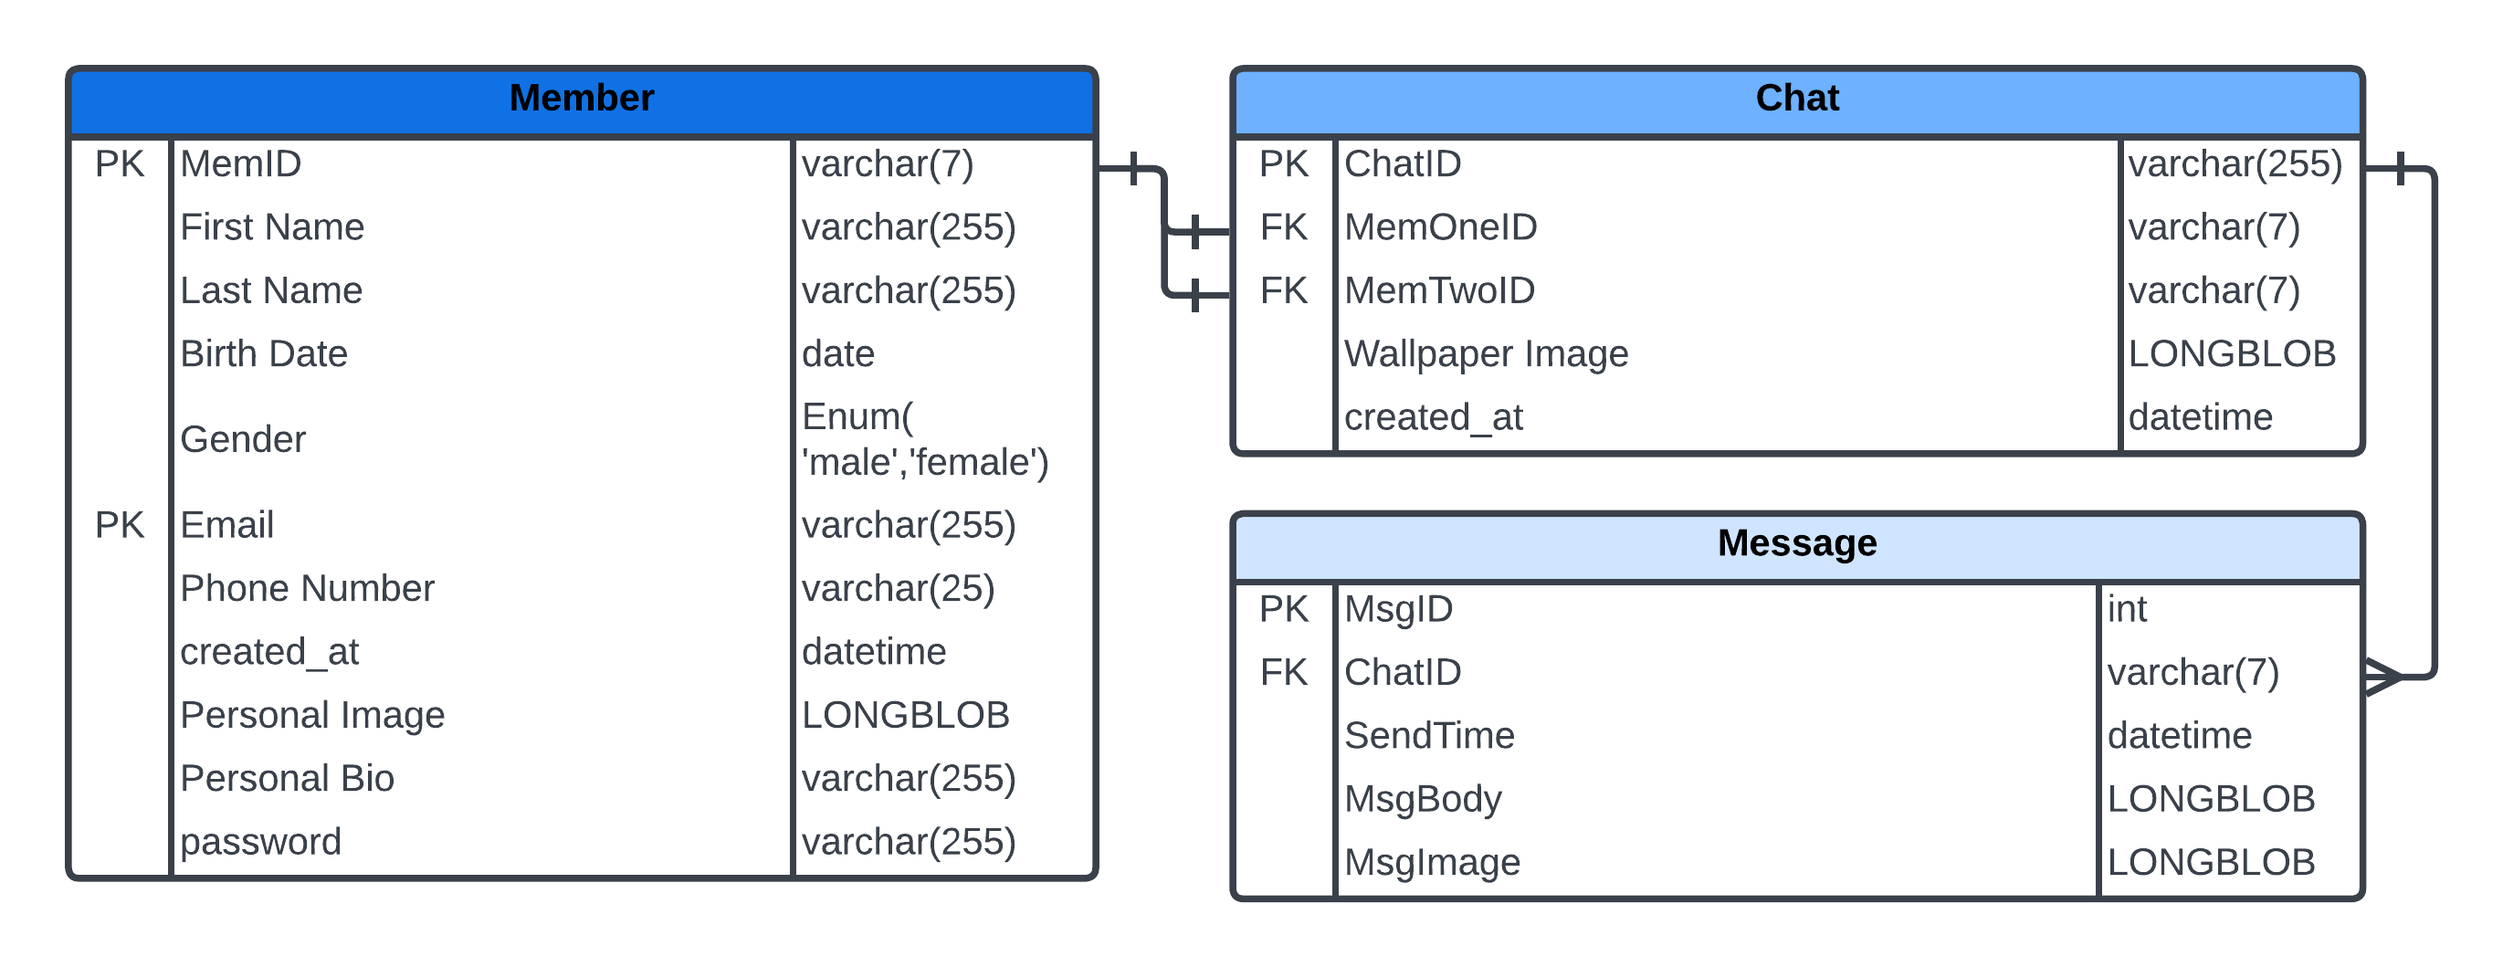
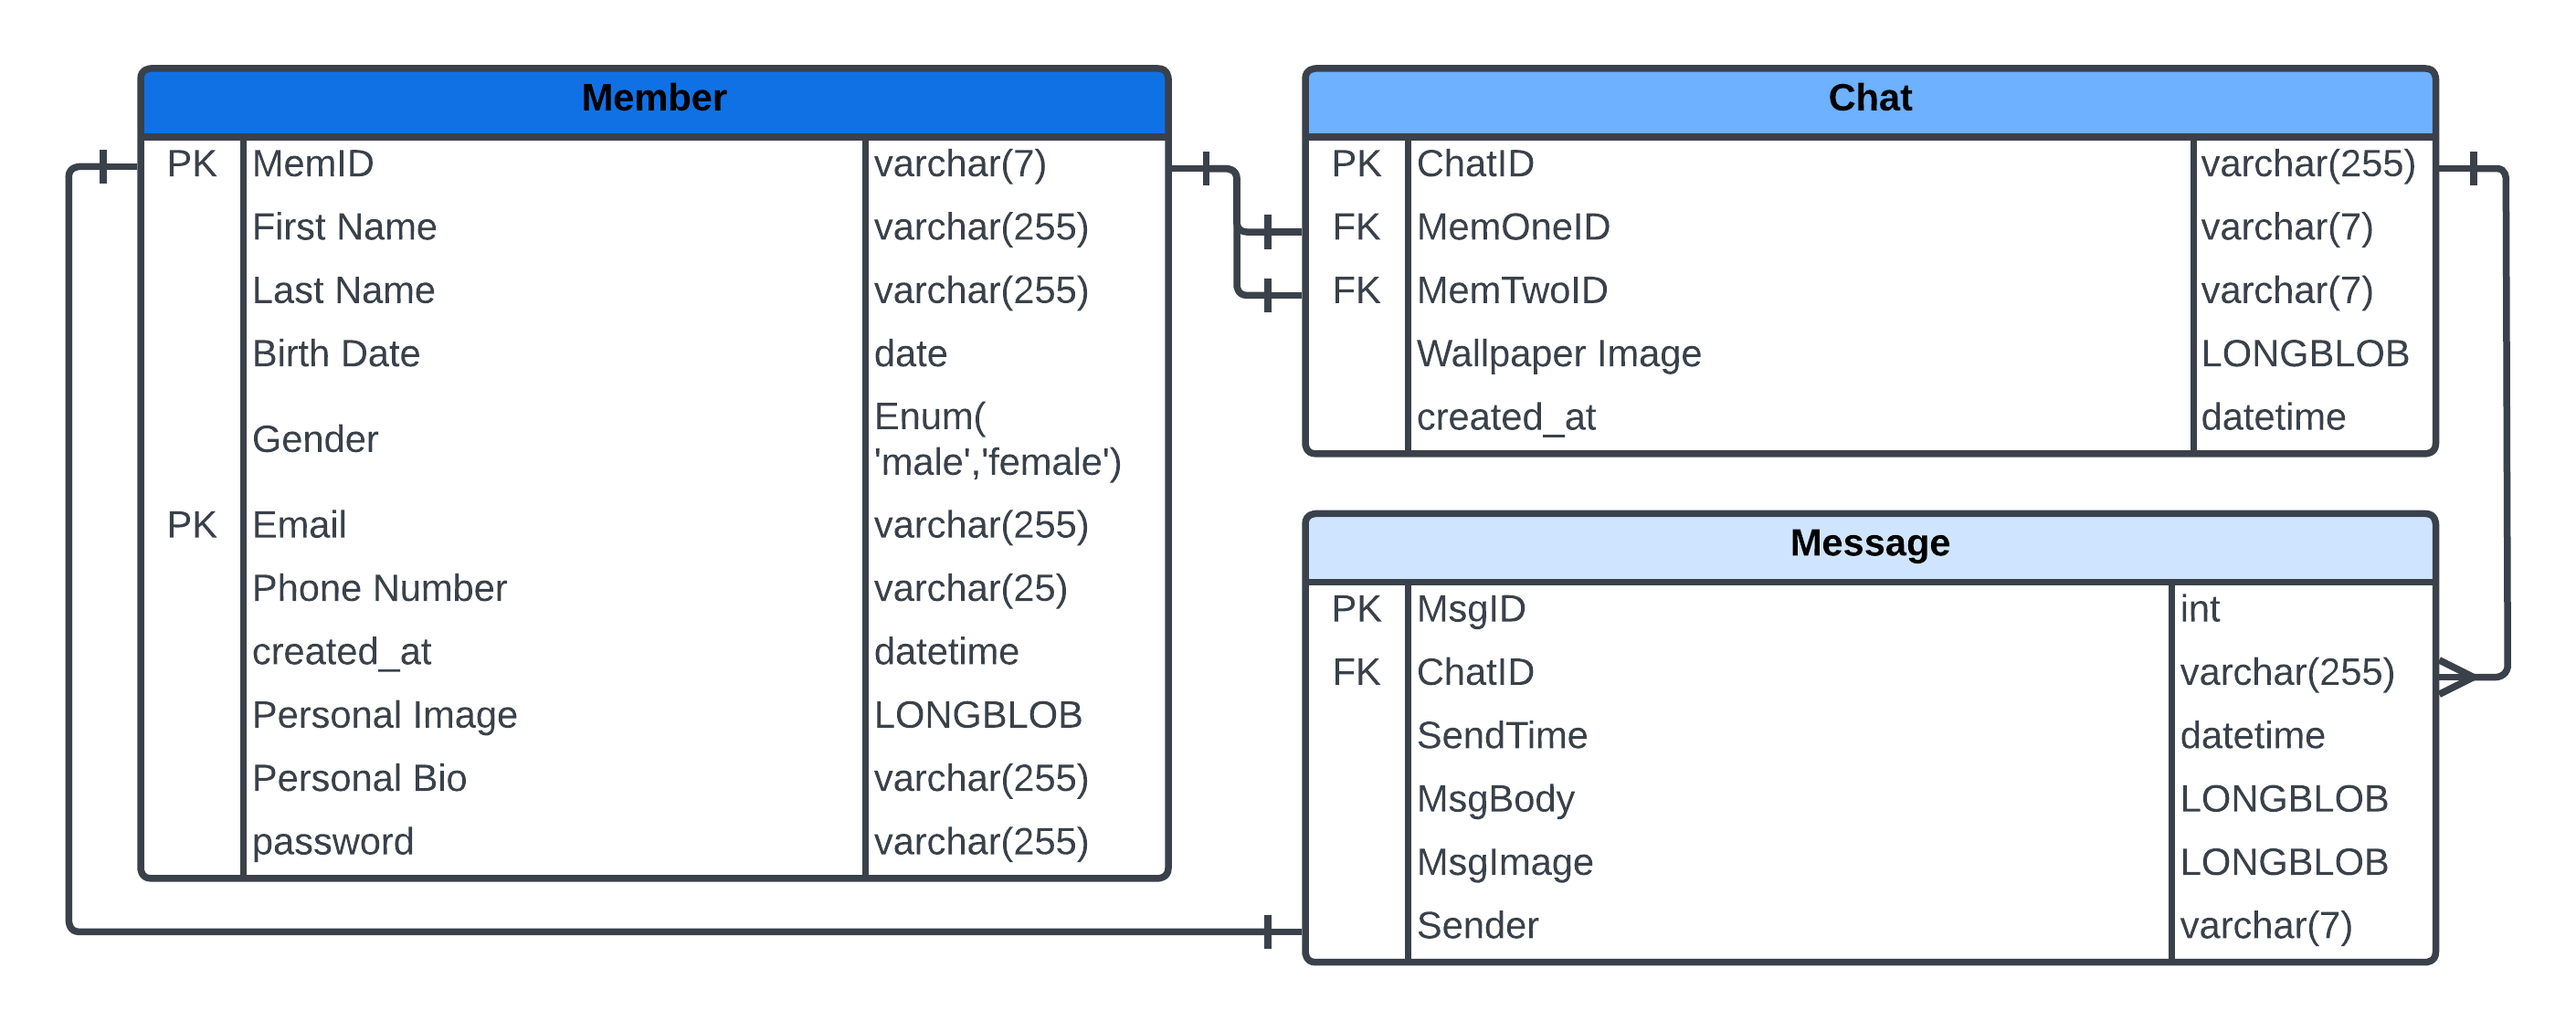
- add new field in Message Model its name Sender - adapt all tests to treat with this new updates - update ChatModelTest to delete the temporary image

Changed region(s): [[0.0, 0.0623, 0.9923, 0.9348]]

diff --git a/EncrypChat/api/unit_tests/MessageListViewTest.py b/EncrypChat/api/unit_tests/MessageListViewTest.py
@@ -34,8 +34,8 @@ class MessageListViewTestCase(TestCase):
             'MemTwoID': self.member2,
         }
         self.chat = Chat.objects.create(**self.chat_data)
-        self.message1 = Message.objects.create(ChatID=self.chat, MsgBody='Hello', SendTime='2023-08-16T10:00:00Z')
-        self.message2 = Message.objects.create(ChatID=self.chat, MsgBody='Hi', SendTime='2023-08-16T11:00:00Z')
+        self.message1 = Message.objects.create(ChatID=self.chat,Sender=self.member1, MsgBody='Hello', SendTime='2023-08-16T10:00:00Z')
+        self.message2 = Message.objects.create(ChatID=self.chat,Sender=self.member1, MsgBody='Hi', SendTime='2023-08-16T11:00:00Z')
 
     def test_get_messages_for_chat(self):
         url = reverse('message-list', kwargs={'ChatID': self.chat.ChatID})

diff --git a/EncrypChat/api/migrations/0001_initial.py b/EncrypChat/api/migrations/0001_initial.py
@@ -1,4 +1,4 @@
-# Generated by Django 4.2.1 on 2023-07-28 03:43
+# Generated by Django 4.2.1 on 2023-08-16 20:36
 
 import api.model.Chat
 import api.model.Member
@@ -47,6 +47,7 @@ class Migration(migrations.Migration):
                 ('MsgBody', models.TextField(blank=True, null=True)),
                 ('MsgImage', models.BinaryField(blank=True, null=True)),
                 ('ChatID', models.ForeignKey(on_delete=django.db.models.deletion.CASCADE, to='api.chat')),
+                ('Sender', models.ForeignKey(on_delete=django.db.models.deletion.CASCADE, to='api.member')),
             ],
         ),
         migrations.AddField(

diff --git a/EncrypChat/api/migrations/0002_alter_message_sender.py b/EncrypChat/api/migrations/0002_alter_message_sender.py
@@ -1,0 +1,19 @@
+# Generated by Django 4.2.1 on 2023-08-16 20:46
+
+from django.db import migrations, models
+import django.db.models.deletion
+
+
+class Migration(migrations.Migration):
+
+    dependencies = [
+        ('api', '0001_initial'),
+    ]
+
+    operations = [
+        migrations.AlterField(
+            model_name='message',
+            name='Sender',
+            field=models.ForeignKey(blank=True, null=True, on_delete=django.db.models.deletion.CASCADE, to='api.member'),
+        ),
+    ]

diff --git a/EncrypChat/api/model/Message.py b/EncrypChat/api/model/Message.py
@@ -1,9 +1,11 @@
 from django.db import models
 from .Chat import Chat
+from .Member import Member
 
 class Message(models.Model):
     MsgID = models.AutoField(primary_key=True)
     ChatID = models.ForeignKey(Chat, on_delete=models.CASCADE)
+    Sender = models.ForeignKey(Member, on_delete=models.CASCADE,null=True,blank=True)
     SendTime = models.DateTimeField(auto_now_add=True)
     MsgBody = models.TextField(blank=True, null=True)
     MsgImage = models.BinaryField(blank=True, null=True)

diff --git a/EncrypChat/api/unit_tests/ChatModelTest.py b/EncrypChat/api/unit_tests/ChatModelTest.py
@@ -56,3 +56,7 @@ class ChatModelTest(TestCase):
         self.assertEqual(self.chat.MemOneID, self.member1)
         self.assertEqual(self.chat.MemTwoID, self.member2)
         self.assertEqual(self.chat.Wallpaper_Image, self.chat_data['Wallpaper_Image'])
+    
+    def tearDown(self):
+        # Delete the temporary image file
+        self.chat.Wallpaper_Image.delete()

diff --git a/EncrypChat/api/model/Chat.py b/EncrypChat/api/model/Chat.py
@@ -3,7 +3,7 @@ from .Member import Member
 import uuid
 
 def chat_wallpaper_path(instance, filename):
-    # This function generates the path for storing the image based on the Member's ID
+    # This function generates the path for storing the image based on the Chat's ID
     return f'chats_wallpaper_images/{instance.ChatID}/{filename}'
 
 class Chat(models.Model):

diff --git a/EncrypChat/api/unit_tests/MessageCreateViewTest.py b/EncrypChat/api/unit_tests/MessageCreateViewTest.py
@@ -37,6 +37,7 @@ class MessageCreateViewTestCase(TestCase):
         self.chat = Chat.objects.create(**self.chat_data)
         self.message_data = {
             'ChatID': self.chat.ChatID,
+            'Sender': self.member1.ID,
             'MsgBody': 'Hello',
             'SendTime': '2023-08-16T10:00:00Z'
         }

diff --git a/EncrypChat/api/unit_tests/MessageModelTest.py b/EncrypChat/api/unit_tests/MessageModelTest.py
@@ -42,6 +42,7 @@ class MessageModelTest(TestCase):
 
         self.message_data = {
             'ChatID': self.chat,
+            'Sender': self.member1,
             'MsgBody': "Hi,\n welcome to my app",
         }
         self.message = Message.objects.create(**self.message_data)
